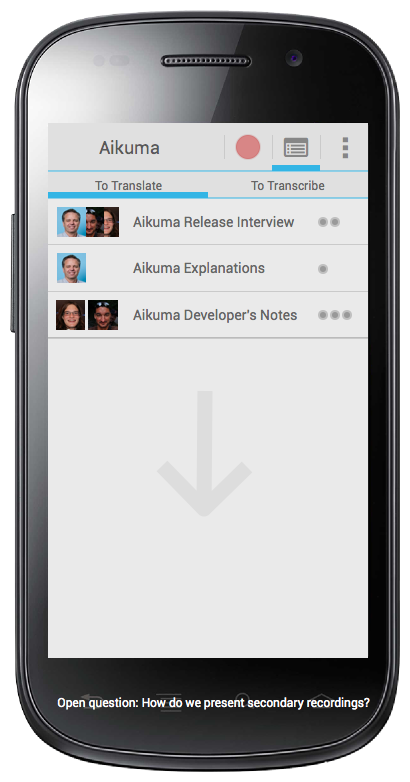
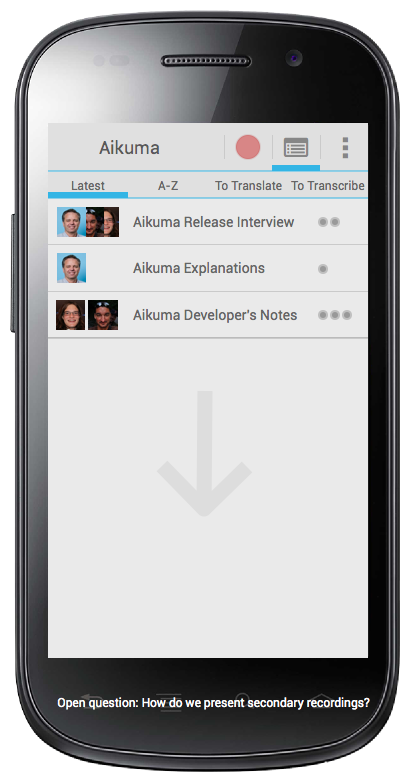
+ New design for 1.0.

Changed region(s): [[0.1756, 0.2148, 0.4976, 0.2762], [0.5268, 0.2148, 0.878, 0.2455]]

diff --git a/source/aikuma/_pencil_design.html b/source/aikuma/_pencil_design.html
@@ -1,1 +1,1 @@
-<html xmlns="http://www.w3.org/1999/xhtml"><head><meta http-equiv="Content-Type" content="text/html; charset=UTF-8" /><title>Aikuma Wireframe.ep</title></head><body><h1 id="documentTitle">Aikuma Wireframe.ep</h1><p id="documentMetadata">Exported at: Mon Jun 17 2013 15:55:59 GMT+1000 (EST)</p><div class="Page" id="main_page"><h2>Main</h2><div class="ImageContainer"><img width="410" height="782" src="pages/main.png" usemap="#map_main" /></div><map name="map_main"><area shape="rect" coords="154.5,383.5,254.5,516.5" href="#main_sync_state_shown_page" title="Go to page 'Main (sync state shown)'" /><area shape="rect" coords="316,123,388.51666259765625,175" href="#menu_page" title="Go to page 'Menu'" /><area shape="rect" coords="220,123,276,175" href="#record_page" title="Go to page 'Record'" /><area shape="rect" coords="48,292,368,339" href="#playing_page" title="Go to page 'Playing'" /><area shape="rect" coords="48,245,368,292" href="#playing_page" title="Go to page 'Playing'" /><area shape="rect" coords="48,198,368,245" href="#playing_page" title="Go to page 'Playing'" /></map></div><div class="Page" id="main_sync_state_shown_page"><h2>Main (sync state shown)</h2><div class="ImageContainer"><img width="410" height="782" src="pages/main_sync_state_shown.png" usemap="#map_main_sync_state_shown" /></div><map name="map_main_sync_state_shown"><area shape="rect" coords="48,355,368,402" href="#playing_page" title="Go to page 'Playing'" /><area shape="rect" coords="48,308,368,355" href="#playing_page" title="Go to page 'Playing'" /><area shape="rect" coords="48,261,368,308" href="#playing_page" title="Go to page 'Playing'" /><area shape="rect" coords="316,123,388.51666259765625,175" href="#menu_page" title="Go to page 'Menu'" /><area shape="rect" coords="220,123,276,175" href="#record_page" title="Go to page 'Record'" /></map></div><div class="Page" id="settings_page"><h2>Settings</h2><div class="ImageContainer"><img width="410" height="782" src="pages/settings.png" usemap="#map_settings" /></div><map name="map_settings"><area shape="rect" coords="316,123,388.51666259765625,175" href="#menu_page" title="Go to page 'Menu'" /><area shape="rect" coords="268,123,324,175" href="#main_page" title="Go to page 'Main'" /><area shape="rect" coords="220,123,276,175" href="#record_page" title="Go to page 'Record'" /></map></div><div class="Page" id="record_page"><h2>Record</h2><div class="ImageContainer"><img width="410" height="782" src="pages/record.png" usemap="#map_record" /></div><map name="map_record"><area shape="rect" coords="316,123,388.51666259765625,175" href="#menu_page" title="Go to page 'Menu'" /><area shape="rect" coords="268,123,324,175" href="#main_page" title="Go to page 'Main'" /><area shape="rect" coords="44,610,372,662" href="#recording_page" title="Go to page 'Recording'" /></map></div><div class="Page" id="recording_page"><h2>Recording</h2><div class="ImageContainer"><img width="410" height="782" src="pages/recording.png" usemap="#map_recording" /></div><map name="map_recording"><area shape="rect" coords="316,123,388.51666259765625,175" href="#menu_page" title="Go to page 'Menu'" /><area shape="rect" coords="268,123,324,175" href="#main_page" title="Go to page 'Main'" /><area shape="rect" coords="44,610,372,662" href="#metadata_page" title="Go to page 'Metadata'" /></map></div><div class="Page" id="metadata_page"><h2>Metadata</h2><div class="ImageContainer"><img width="410" height="782" src="pages/metadata.png" usemap="#map_metadata" /></div><map name="map_metadata"><area shape="rect" coords="204,610,372,662" href="#main_page" title="Go to page 'Main'" /><area shape="rect" coords="204,610,372,662" href="#main_page" title="Go to page 'Main'" /><area shape="rect" coords="316,123,388.51666259765625,175" href="#menu_page" title="Go to page 'Menu'" /><area shape="rect" coords="268,123,324,175" href="#main_page" title="Go to page 'Main'" /><area shape="rect" coords="220,123,276,175" href="#record_page" title="Go to page 'Record'" /><area shape="rect" coords="149,255,187,293" href="#add_speaker_page" title="Go to page 'Add Speaker'" /><area shape="rect" coords="44,610,212,662" href="#main_page" title="Go to page 'Main'" /></map></div><div class="Page" id="speaker_page"><h2>Speaker</h2><div class="ImageContainer"><img width="410" height="782" src="pages/speaker.png" usemap="#map_speaker" /></div><map name="map_speaker"><area shape="rect" coords="48,266,368,313" href="#playing_page" title="Go to page 'Playing'" /><area shape="rect" coords="48,220,368,267" href="#playing_page" title="Go to page 'Playing'" /><area shape="rect" coords="316,123,388.51666259765625,175" href="#menu_page" title="Go to page 'Menu'" /><area shape="rect" coords="268,123,324,175" href="#main_page" title="Go to page 'Main'" /><area shape="rect" coords="220,123,276,175" href="#record_page" title="Go to page 'Record'" /><area shape="rect" coords="64,680,119,721" href="#main_page" title="Go to page 'Main'" /></map></div><div class="Page" id="add_speaker_page"><h2>Add Speaker</h2><div class="ImageContainer"><img width="410" height="782" src="pages/add_speaker.png" usemap="#map_add_speaker" /></div><map name="map_add_speaker"><area shape="rect" coords="316,123,388.51666259765625,175" href="#menu_page" title="Go to page 'Menu'" /><area shape="rect" coords="268,123,324,175" href="#main_page" title="Go to page 'Main'" /><area shape="rect" coords="220,123,276,175" href="#record_page" title="Go to page 'Record'" /><area shape="rect" coords="48,410,368,458" href="#add_language_add_speaker_page" title="Go to page 'Add Language (Add Speaker)'" /><area shape="rect" coords="204,609,372,661" href="#metadata_page" title="Go to page 'Metadata'" /><area shape="rect" coords="44,609,212,661" href="#metadata_page" title="Go to page 'Metadata'" /></map></div><div class="Page" id="playing_page"><h2>Playing</h2><div class="ImageContainer"><img width="410" height="782" src="pages/playing.png" usemap="#map_playing" /></div><map name="map_playing"><area shape="rect" coords="316,123,388.51666259765625,175" href="#menu_page" title="Go to page 'Menu'" /><area shape="rect" coords="268,123,324,175" href="#main_page" title="Go to page 'Main'" /><area shape="rect" coords="220,123,276,175" href="#record_page" title="Go to page 'Record'" /><area shape="rect" coords="44,610,372,662" href="#playing_recording_comment_page" title="Go to page 'Playing Recording Comment'" /><area shape="rect" coords="129,314,167,352" href="#playing_comment_selected_page" title="Go to page 'Playing Comment Selected'" /></map></div><div class="Page" id="playing_comment_selected_page"><h2>Playing Comment Selected</h2><div class="ImageContainer"><img width="410" height="782" src="pages/playing_comment_selected.png" usemap="#map_playing_comment_selected" /></div><map name="map_playing_comment_selected"><area shape="rect" coords="316,123,388.51666259765625,175" href="#menu_page" title="Go to page 'Menu'" /><area shape="rect" coords="268,123,324,175" href="#main_page" title="Go to page 'Main'" /><area shape="rect" coords="220,123,276,175" href="#record_page" title="Go to page 'Record'" /><area shape="rect" coords="129,314,167,352" href="#playing_comment_selected_page" title="Go to page 'Playing Comment Selected'" /></map></div><div class="Page" id="playing_recording_comment_page"><h2>Playing Recording Comment</h2><div class="ImageContainer"><img width="410" height="782" src="pages/playing_recording_comment.png" usemap="#map_playing_recording_comment" /></div><map name="map_playing_recording_comment"><area shape="rect" coords="316,123,388.51666259765625,175" href="#menu_page" title="Go to page 'Menu'" /><area shape="rect" coords="268,123,324,175" href="#main_page" title="Go to page 'Main'" /><area shape="rect" coords="220,123,276,175" href="#record_page" title="Go to page 'Record'" /><area shape="rect" coords="129,314,167,352" href="#playing_comment_selected_page" title="Go to page 'Playing Comment Selected'" /><area shape="rect" coords="44,610,372,662" href="#playing_comment_ok_page" title="Go to page 'Playing Comment Ok?'" /></map></div><div class="Page" id="playing_comment_ok_page"><h2>Playing Comment Ok?</h2><div class="ImageContainer"><img width="410" height="782" src="pages/playing_comment_ok.png" usemap="#map_playing_comment_ok" /></div><map name="map_playing_comment_ok"><area shape="rect" coords="316,123,388.51666259765625,175" href="#menu_page" title="Go to page 'Menu'" /><area shape="rect" coords="268,123,324,175" href="#main_page" title="Go to page 'Main'" /><area shape="rect" coords="220,123,276,175" href="#record_page" title="Go to page 'Record'" /><area shape="rect" coords="129,314,167,352" href="#playing_comment_selected_page" title="Go to page 'Playing Comment Selected'" /><area shape="rect" coords="203,610,371,662" href="#metadata_page" title="Go to page 'Metadata'" /><area shape="rect" coords="44,610,212,662" href="#playing_page" title="Go to page 'Playing'" /></map></div><div class="Page" id="add_language_add_speaker_page"><h2>Add Language (Add Speaker)</h2><div class="ImageContainer"><img width="410" height="782" src="pages/add_language_add_speaker.png" usemap="#map_add_language_add_speaker" /></div><map name="map_add_language_add_speaker"><area shape="rect" coords="316,123,388.51666259765625,175" href="#menu_page" title="Go to page 'Menu'" /><area shape="rect" coords="268,123,324,175" href="#main_page" title="Go to page 'Main'" /><area shape="rect" coords="220,123,276,175" href="#record_page" title="Go to page 'Record'" /><area shape="rect" coords="203,610,371,662" href="#add_speaker_page" title="Go to page 'Add Speaker'" /><area shape="rect" coords="44,610,212,662" href="#add_speaker_page" title="Go to page 'Add Speaker'" /><area shape="rect" coords="81,218,334,266" href="#add_speaker_page" title="Go to page 'Add Speaker'" /><area shape="rect" coords="81,475,334,523" href="#add_speaker_page" title="Go to page 'Add Speaker'" /><area shape="rect" coords="81,427,334,475" href="#add_speaker_page" title="Go to page 'Add Speaker'" /><area shape="rect" coords="81,379,334,427" href="#add_speaker_page" title="Go to page 'Add Speaker'" /><area shape="rect" coords="81,331,334,379" href="#add_speaker_page" title="Go to page 'Add Speaker'" /></map></div><div class="Page" id="search_result_page"><h2>Search Result</h2><div class="ImageContainer"><img width="410" height="782" src="pages/search_result.png" usemap="#map_search_result" /></div><map name="map_search_result"><area shape="rect" coords="48,340,368,387" href="#playing_page" title="Go to page 'Playing'" /><area shape="rect" coords="48,293,368,340" href="#playing_page" title="Go to page 'Playing'" /><area shape="rect" coords="48,246,368,293" href="#playing_page" title="Go to page 'Playing'" /><area shape="rect" coords="316,123,388.51666259765625,175" href="#menu_page" title="Go to page 'Menu'" /><area shape="rect" coords="268,123,324,175" href="#main_page" title="Go to page 'Main'" /><area shape="rect" coords="220,123,276,175" href="#record_page" title="Go to page 'Record'" /><area shape="rect" coords="331,208,353.43333435058594,236" href="#new_search_page" title="Go to page 'New Search'" /><area shape="rect" coords="48,200,368,247" href="#playing_comment_selected_page" title="Go to page 'Playing Comment Selected'" /><area shape="rect" coords="64,680,119,721" href="#main_page" title="Go to page 'Main'" /></map></div><div class="Page" id="new_search_page"><h2>New Search</h2><div class="ImageContainer"><img width="410" height="782" src="pages/new_search.png" usemap="#map_new_search" /></div><map name="map_new_search"><area shape="rect" coords="316,123,388.51666259765625,175" href="#menu_page" title="Go to page 'Menu'" /><area shape="rect" coords="268,123,324,175" href="#main_page" title="Go to page 'Main'" /><area shape="rect" coords="220,123,276,175" href="#record_page" title="Go to page 'Record'" /><area shape="rect" coords="204,609,372,661" href="#metadata_share_page" title="Go to page 'Metadata (Share?)'" /><area shape="rect" coords="44,609,212,661" href="#search_result_page" title="Go to page 'Search Result'" /></map></div><div class="Page" id="metadata_share_page"><h2>Metadata (Share?)</h2><div class="ImageContainer"><img width="410" height="782" src="pages/metadata_share.png" usemap="#map_metadata_share" /></div><map name="map_metadata_share"><area shape="rect" coords="316,123,388.51666259765625,175" href="#menu_page" title="Go to page 'Menu'" /><area shape="rect" coords="268,123,324,175" href="#main_page" title="Go to page 'Main'" /><area shape="rect" coords="220,123,276,175" href="#record_page" title="Go to page 'Record'" /><area shape="rect" coords="204,610,372,662" href="#search_result_page" title="Go to page 'Search Result'" /><area shape="rect" coords="44,610,212,662" href="#search_result_page" title="Go to page 'Search Result'" /></map></div><div class="Page" id="menu_page"><h2>Menu</h2><div class="ImageContainer"><img width="410" height="782" src="pages/menu.png" usemap="#map_menu" /></div><map name="map_menu"><area shape="rect" coords="229,208,379,247" href="#speaker_page" title="Go to page 'Speaker'" /><area shape="rect" coords="229,243,379,291" href="#settings_page" title="Go to page 'Settings'" /><area shape="rect" coords="229,160,379,212" href="#search_result_page" title="Go to page 'Search Result'" /><area shape="rect" coords="268,123,324,175" href="#main_page" title="Go to page 'Main'" /><area shape="rect" coords="220,123,276,175" href="#record_page" title="Go to page 'Record'" /></map></div><div class="Page" id="various_2_page"><h2>Various 2</h2><div class="ImageContainer"><img width="410" height="782" src="pages/various_2.png" usemap="#map_various_2" /></div><map name="map_various_2"></map></div><div class="Page" id="various_page"><h2>Various</h2><div class="ImageContainer"><img width="410" height="782" src="pages/various.png" usemap="#map_various" /></div><map name="map_various"></map></div></body></html>
+<html xmlns="http://www.w3.org/1999/xhtml"><head><meta http-equiv="Content-Type" content="text/html; charset=UTF-8" /><title>Aikuma Wireframe.ep</title></head><body><h1 id="documentTitle">Aikuma Wireframe.ep</h1><p id="documentMetadata">Exported at: Mon Jun 17 2013 17:33:28 GMT+1000 (EST)</p><div class="Page" id="main_page"><h2>Main</h2><div class="ImageContainer"><img width="410" height="782" src="pages/main.png" usemap="#map_main" /></div><map name="map_main"><area shape="rect" coords="154.5,383.5,254.5,516.5" href="#main_sync_state_shown_page" title="Go to page 'Main (sync state shown)'" /><area shape="rect" coords="316,123,388.51666259765625,175" href="#menu_page" title="Go to page 'Menu'" /><area shape="rect" coords="220,123,276,175" href="#record_page" title="Go to page 'Record'" /><area shape="rect" coords="48,292,368,339" href="#playing_page" title="Go to page 'Playing'" /><area shape="rect" coords="48,245,368,292" href="#playing_page" title="Go to page 'Playing'" /><area shape="rect" coords="48,198,368,245" href="#playing_page" title="Go to page 'Playing'" /></map></div><div class="Page" id="main_sync_state_shown_page"><h2>Main (sync state shown)</h2><div class="ImageContainer"><img width="410" height="782" src="pages/main_sync_state_shown.png" usemap="#map_main_sync_state_shown" /></div><map name="map_main_sync_state_shown"><area shape="rect" coords="48,355,368,402" href="#playing_page" title="Go to page 'Playing'" /><area shape="rect" coords="48,308,368,355" href="#playing_page" title="Go to page 'Playing'" /><area shape="rect" coords="48,261,368,308" href="#playing_page" title="Go to page 'Playing'" /><area shape="rect" coords="316,123,388.51666259765625,175" href="#menu_page" title="Go to page 'Menu'" /><area shape="rect" coords="220,123,276,175" href="#record_page" title="Go to page 'Record'" /></map></div><div class="Page" id="settings_page"><h2>Settings</h2><div class="ImageContainer"><img width="410" height="782" src="pages/settings.png" usemap="#map_settings" /></div><map name="map_settings"><area shape="rect" coords="316,123,388.51666259765625,175" href="#menu_page" title="Go to page 'Menu'" /><area shape="rect" coords="268,123,324,175" href="#main_page" title="Go to page 'Main'" /><area shape="rect" coords="220,123,276,175" href="#record_page" title="Go to page 'Record'" /></map></div><div class="Page" id="record_page"><h2>Record</h2><div class="ImageContainer"><img width="410" height="782" src="pages/record.png" usemap="#map_record" /></div><map name="map_record"><area shape="rect" coords="316,123,388.51666259765625,175" href="#menu_page" title="Go to page 'Menu'" /><area shape="rect" coords="268,123,324,175" href="#main_page" title="Go to page 'Main'" /><area shape="rect" coords="44,610,372,662" href="#recording_page" title="Go to page 'Recording'" /></map></div><div class="Page" id="recording_page"><h2>Recording</h2><div class="ImageContainer"><img width="410" height="782" src="pages/recording.png" usemap="#map_recording" /></div><map name="map_recording"><area shape="rect" coords="316,123,388.51666259765625,175" href="#menu_page" title="Go to page 'Menu'" /><area shape="rect" coords="268,123,324,175" href="#main_page" title="Go to page 'Main'" /><area shape="rect" coords="44,610,372,662" href="#metadata_page" title="Go to page 'Metadata'" /></map></div><div class="Page" id="metadata_page"><h2>Metadata</h2><div class="ImageContainer"><img width="410" height="782" src="pages/metadata.png" usemap="#map_metadata" /></div><map name="map_metadata"><area shape="rect" coords="204,610,372.01666259765625,662" href="#main_page" title="Go to page 'Main'" /><area shape="rect" coords="204,610,372.01666259765625,662" href="#metadata_share_page" title="Go to page 'Metadata Share'" /><area shape="rect" coords="316,123,388.51666259765625,175" href="#menu_page" title="Go to page 'Menu'" /><area shape="rect" coords="268,123,324,175" href="#main_page" title="Go to page 'Main'" /><area shape="rect" coords="220,123,276,175" href="#record_page" title="Go to page 'Record'" /><area shape="rect" coords="149,255,187,293" href="#speakers_page" title="Go to page 'Speakers'" /><area shape="rect" coords="44,610,212,662" href="#main_page" title="Go to page 'Main'" /></map></div><div class="Page" id="speaker_page"><h2>Speaker</h2><div class="ImageContainer"><img width="410" height="782" src="pages/speaker.png" usemap="#map_speaker" /></div><map name="map_speaker"><area shape="rect" coords="48,266,368,313" href="#playing_page" title="Go to page 'Playing'" /><area shape="rect" coords="48,220,368,267" href="#playing_page" title="Go to page 'Playing'" /><area shape="rect" coords="316,123,388.51666259765625,175" href="#menu_page" title="Go to page 'Menu'" /><area shape="rect" coords="268,123,324,175" href="#main_page" title="Go to page 'Main'" /><area shape="rect" coords="220,123,276,175" href="#record_page" title="Go to page 'Record'" /><area shape="rect" coords="64,680,119,721" href="#main_page" title="Go to page 'Main'" /></map></div><div class="Page" id="add_speaker_page"><h2>Add Speaker</h2><div class="ImageContainer"><img width="410" height="782" src="pages/add_speaker.png" usemap="#map_add_speaker" /></div><map name="map_add_speaker"><area shape="rect" coords="316,123,388.51666259765625,175" href="#menu_page" title="Go to page 'Menu'" /><area shape="rect" coords="268,123,324,175" href="#main_page" title="Go to page 'Main'" /><area shape="rect" coords="220,123,276,175" href="#record_page" title="Go to page 'Record'" /><area shape="rect" coords="48,410,368,458" href="#add_language_add_speaker_page" title="Go to page 'Add Language (Add Speaker)'" /><area shape="rect" coords="204,609,372,661" href="#metadata_page" title="Go to page 'Metadata'" /><area shape="rect" coords="44,609,212,661" href="#metadata_page" title="Go to page 'Metadata'" /></map></div><div class="Page" id="playing_page"><h2>Playing</h2><div class="ImageContainer"><img width="410" height="782" src="pages/playing.png" usemap="#map_playing" /></div><map name="map_playing"><area shape="rect" coords="316,123,388.51666259765625,175" href="#menu_page" title="Go to page 'Menu'" /><area shape="rect" coords="268,123,324,175" href="#main_page" title="Go to page 'Main'" /><area shape="rect" coords="220,123,276,175" href="#record_page" title="Go to page 'Record'" /><area shape="rect" coords="44,610,372,662" href="#playing_recording_comment_page" title="Go to page 'Playing Recording Comment'" /><area shape="rect" coords="129,314,167,352" href="#playing_comment_selected_page" title="Go to page 'Playing Comment Selected'" /></map></div><div class="Page" id="playing_comment_selected_page"><h2>Playing Comment Selected</h2><div class="ImageContainer"><img width="410" height="782" src="pages/playing_comment_selected.png" usemap="#map_playing_comment_selected" /></div><map name="map_playing_comment_selected"><area shape="rect" coords="316,123,388.51666259765625,175" href="#menu_page" title="Go to page 'Menu'" /><area shape="rect" coords="268,123,324,175" href="#main_page" title="Go to page 'Main'" /><area shape="rect" coords="220,123,276,175" href="#record_page" title="Go to page 'Record'" /><area shape="rect" coords="129,314,167,352" href="#playing_comment_selected_page" title="Go to page 'Playing Comment Selected'" /></map></div><div class="Page" id="playing_recording_comment_page"><h2>Playing Recording Comment</h2><div class="ImageContainer"><img width="410" height="782" src="pages/playing_recording_comment.png" usemap="#map_playing_recording_comment" /></div><map name="map_playing_recording_comment"><area shape="rect" coords="316,123,388.51666259765625,175" href="#menu_page" title="Go to page 'Menu'" /><area shape="rect" coords="268,123,324,175" href="#main_page" title="Go to page 'Main'" /><area shape="rect" coords="220,123,276,175" href="#record_page" title="Go to page 'Record'" /><area shape="rect" coords="129,314,167,352" href="#playing_comment_selected_page" title="Go to page 'Playing Comment Selected'" /><area shape="rect" coords="44,610,372,662" href="#playing_comment_ok_page" title="Go to page 'Playing Comment Ok?'" /></map></div><div class="Page" id="playing_comment_ok_page"><h2>Playing Comment Ok?</h2><div class="ImageContainer"><img width="410" height="782" src="pages/playing_comment_ok.png" usemap="#map_playing_comment_ok" /></div><map name="map_playing_comment_ok"><area shape="rect" coords="316,123,388.51666259765625,175" href="#menu_page" title="Go to page 'Menu'" /><area shape="rect" coords="268,123,324,175" href="#main_page" title="Go to page 'Main'" /><area shape="rect" coords="220,123,276,175" href="#record_page" title="Go to page 'Record'" /><area shape="rect" coords="129,314,167,352" href="#playing_comment_selected_page" title="Go to page 'Playing Comment Selected'" /><area shape="rect" coords="203,610,371,662" href="#metadata_page" title="Go to page 'Metadata'" /><area shape="rect" coords="44,610,212,662" href="#playing_page" title="Go to page 'Playing'" /></map></div><div class="Page" id="add_language_add_speaker_page"><h2>Add Language (Add Speaker)</h2><div class="ImageContainer"><img width="410" height="782" src="pages/add_language_add_speaker.png" usemap="#map_add_language_add_speaker" /></div><map name="map_add_language_add_speaker"><area shape="rect" coords="316,123,388.51666259765625,175" href="#menu_page" title="Go to page 'Menu'" /><area shape="rect" coords="268,123,324,175" href="#main_page" title="Go to page 'Main'" /><area shape="rect" coords="220,123,276,175" href="#record_page" title="Go to page 'Record'" /><area shape="rect" coords="203,610,371,662" href="#add_speaker_page" title="Go to page 'Add Speaker'" /><area shape="rect" coords="44,610,212,662" href="#add_speaker_page" title="Go to page 'Add Speaker'" /><area shape="rect" coords="81,218,334,266" href="#add_speaker_page" title="Go to page 'Add Speaker'" /><area shape="rect" coords="81,475,334,523" href="#add_speaker_page" title="Go to page 'Add Speaker'" /><area shape="rect" coords="81,427,334,475" href="#add_speaker_page" title="Go to page 'Add Speaker'" /><area shape="rect" coords="81,379,334,427" href="#add_speaker_page" title="Go to page 'Add Speaker'" /><area shape="rect" coords="81,331,334,379" href="#add_speaker_page" title="Go to page 'Add Speaker'" /></map></div><div class="Page" id="search_result_page"><h2>Search Result</h2><div class="ImageContainer"><img width="410" height="782" src="pages/search_result.png" usemap="#map_search_result" /></div><map name="map_search_result"><area shape="rect" coords="48,340,368,387" href="#playing_page" title="Go to page 'Playing'" /><area shape="rect" coords="48,293,368,340" href="#playing_page" title="Go to page 'Playing'" /><area shape="rect" coords="48,246,368,293" href="#playing_page" title="Go to page 'Playing'" /><area shape="rect" coords="316,123,388.51666259765625,175" href="#menu_page" title="Go to page 'Menu'" /><area shape="rect" coords="268,123,324,175" href="#main_page" title="Go to page 'Main'" /><area shape="rect" coords="220,123,276,175" href="#record_page" title="Go to page 'Record'" /><area shape="rect" coords="331,208,353.43333435058594,236" href="#new_search_page" title="Go to page 'New Search'" /><area shape="rect" coords="48,200,368,247" href="#playing_comment_selected_page" title="Go to page 'Playing Comment Selected'" /><area shape="rect" coords="64,680,119,721" href="#main_page" title="Go to page 'Main'" /></map></div><div class="Page" id="new_search_page"><h2>New Search</h2><div class="ImageContainer"><img width="410" height="782" src="pages/new_search.png" usemap="#map_new_search" /></div><map name="map_new_search"><area shape="rect" coords="316,123,388.51666259765625,175" href="#menu_page" title="Go to page 'Menu'" /><area shape="rect" coords="268,123,324,175" href="#main_page" title="Go to page 'Main'" /><area shape="rect" coords="220,123,276,175" href="#record_page" title="Go to page 'Record'" /><area shape="rect" coords="204,609,372,661" href="#metadata_share_page" title="Go to page 'Metadata Share'" /><area shape="rect" coords="44,609,212,661" href="#search_result_page" title="Go to page 'Search Result'" /></map></div><div class="Page" id="metadata_share_page"><h2>Metadata Share</h2><div class="ImageContainer"><img width="410" height="782" src="pages/metadata_share.png" usemap="#map_metadata_share" /></div><map name="map_metadata_share"><area shape="rect" coords="316,123,388.51666259765625,175" href="#menu_page" title="Go to page 'Menu'" /><area shape="rect" coords="268,123,324,175" href="#main_page" title="Go to page 'Main'" /><area shape="rect" coords="220,123,276,175" href="#record_page" title="Go to page 'Record'" /><area shape="rect" coords="204,610,372,662" href="#main_page" title="Go to page 'Main'" /><area shape="rect" coords="44,610,212,662" href="#main_page" title="Go to page 'Main'" /></map></div><div class="Page" id="menu_page"><h2>Menu</h2><div class="ImageContainer"><img width="410" height="782" src="pages/menu.png" usemap="#map_menu" /></div><map name="map_menu"><area shape="rect" coords="229,208,379,247" href="#speakers_page" title="Go to page 'Speakers'" /><area shape="rect" coords="229,243,379,291" href="#settings_page" title="Go to page 'Settings'" /><area shape="rect" coords="229,160,379,212" href="#search_result_page" title="Go to page 'Search Result'" /><area shape="rect" coords="268,123,324,175" href="#main_page" title="Go to page 'Main'" /><area shape="rect" coords="220,123,276,175" href="#record_page" title="Go to page 'Record'" /></map></div><div class="Page" id="various_2_page"><h2>Various 2</h2><div class="ImageContainer"><img width="410" height="782" src="pages/various_2.png" usemap="#map_various_2" /></div><map name="map_various_2"></map></div><div class="Page" id="various_page"><h2>Various</h2><div class="ImageContainer"><img width="410" height="782" src="pages/various.png" usemap="#map_various" /></div><map name="map_various"></map></div><div class="Page" id="speakers_page"><h2>Speakers</h2><div class="ImageContainer"><img width="410" height="782" src="pages/speakers.png" usemap="#map_speakers" /></div><map name="map_speakers"><area shape="rect" coords="48,221,368,269" href="#metadata_page" title="Go to page 'Metadata'" /><area shape="rect" coords="48,269,368,317" href="#metadata_page" title="Go to page 'Metadata'" /><area shape="rect" coords="48,317,368,365" href="#add_speaker_page" title="Go to page 'Add Speaker'" /><area shape="rect" coords="48,173,368,221" href="#speaker_page" title="Go to page 'Speaker'" /><area shape="rect" coords="316,123,388.51666259765625,175" href="#menu_page" title="Go to page 'Menu'" /><area shape="rect" coords="268,123,324,175" href="#main_page" title="Go to page 'Main'" /><area shape="rect" coords="220,123,276,175" href="#record_page" title="Go to page 'Record'" /><area shape="rect" coords="64,680,119,721" href="#main_page" title="Go to page 'Main'" /></map></div></body></html>
